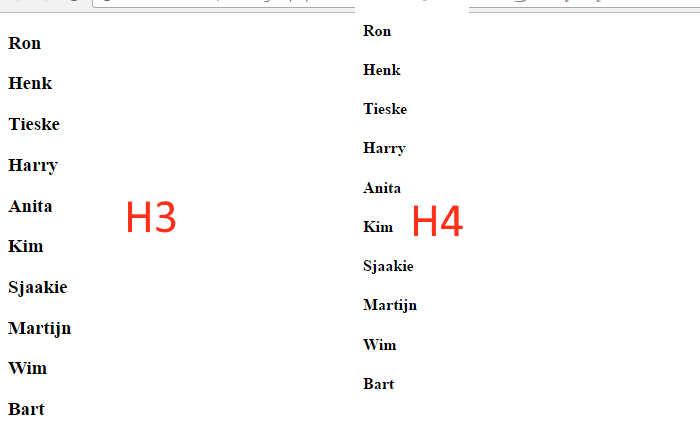
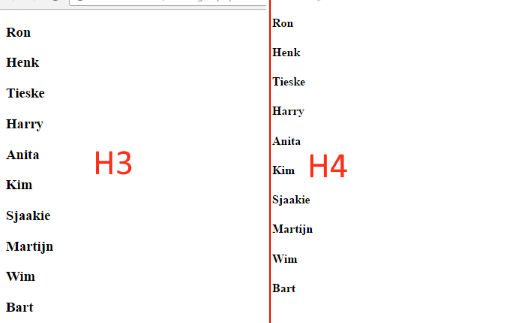
Lesopdracht 1

diff --git a/php/productie/Lesopdrachten.md b/php/productie/Lesopdrachten.md
@@ -7,11 +7,11 @@ We gaan een *array* maken met de namen van minimaal 10 klasgenoten. Daarna gaan 
 
 1. Maak een nieuwe *array* variabele aan. Plaats deze variabele helemaal bovenaan in je PHP bestand. Bedenk een zinnige naam voor deze variabele
 2. Vul deze array met de namen van minimaal 10 klasgenoten
-3. Zorg ervoor (**zonder een loop te gebruiken!**) dat je alle klasgenoten binnen een &lt;H2&gt; element echo't (zie voorbeeld hieronder). Doe dit natuurlijk binnen de &lt;body&gt;
-4. Nu gaan we (via een *for* loop) nogmaals alle klasgenoten echo'en, maar dan nu binnen een &lt;H3&gt; element (zie voorbeeld hieronder). Doe dit natuurlijk binnen de &lt;body&gt;
+3. Zorg ervoor (**zonder een loop te gebruiken!**) dat je alle klasgenoten binnen een &lt;H3&gt; element echo't (zie voorbeeld hieronder). Doe dit natuurlijk binnen de &lt;body&gt;
+4. Nu gaan we (via een *for* loop) nogmaals alle klasgenoten echo'en, maar dan nu binnen een &lt;H4&gt; element (zie voorbeeld hieronder). Doe dit natuurlijk binnen de &lt;body&gt;
 
 ![Webpagina om na te maken](https://raw.githubusercontent.com/ictacademiekw1c/opdrachten-repository/master/php/productie/afbeeldingen/Lesopdracht1.png)
-
+*Hier de 2 voorbeelden van de 2 lijsten (via H3 en H4 elementen)*
 
 
 **Naslagwerk**
